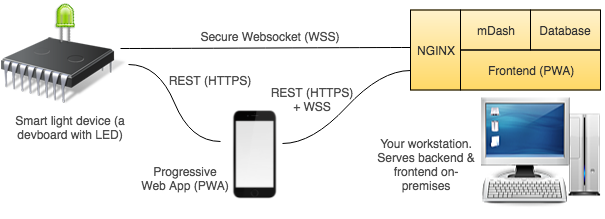
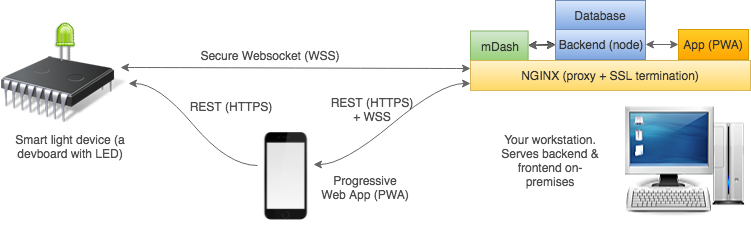
Add api server skeleton

diff --git a/backend/api-server/main.js b/backend/api-server/main.js
@@ -1,0 +1,41 @@
+// const Websocket = require('ws');
+const argv = require('minimist')(process.argv.slice(2));
+const httpServer = require('http').createServer();
+const bodyParser = require('body-parser');
+const app = require('express')();
+
+// const reconnectToNotificationEndpoint = () => {
+//   const addr = argv.notif;
+//   console.log('Connecting to', addr, '...');
+//   const ws = new Websocket(addr, {origin: addr});
+//   ws.on('open', () => {
+//     console.log('Connected.');
+//   });
+//   ws.on('close', () => {
+//     console.log('Disconnected.');
+//     setTimeout(reconnectToNotificationEndpoint, 1000);
+//   });
+//   ws.on('error', (err) => {
+//     console.log('error:', err);
+//   });
+//   ws.on('message', (message) => {
+//     console.log('Got message:', message.toString());
+//   });
+// };
+// reconnectToNotificationEndpoint();
+
+app.set('json spaces', 2);
+app.use(bodyParser.urlencoded({extended: true}));
+
+app.get('/api/listDevices', (req, res) => {
+  res.json({foo: 123, body: req.body});
+});
+
+const catchAll = (req, res) => res.json({error: 404, message: 'doh'});
+app.get('*', catchAll);
+app.post('*', catchAll);
+
+httpServer.on('request', app);
+httpServer.listen(argv.port || 8002, () => {
+  console.log('Starting API Server on port', argv.port || 8002);
+});

diff --git a/backend/mobile-app/js/app.jsx b/backend/mobile-app/js/app.jsx
@@ -102,9 +102,9 @@ class App extends Component {
       <div className="container-fluid" style={{ 'max-width': '480px' }}>
         <Header />
         <Router history={createHashHistory()} onChange={e => { this.currentUrl = e.url }}>
-          <Login default path="/" />
-          <Signup path="/signup" title="Sign Up" />
-          <DeviceList path="/devices" title="Device List" />
+          {/* <Login default path="/" /> */}
+          {/* <Signup path="/signup" title="Sign Up" /> */}
+          <DeviceList path="/" default title="Device List" />
         </Router>
       </div >
     )

diff --git a/README.md b/README.md
@@ -1,11 +1,11 @@
 # Full IoT product: smart light on Mongoose OS
 
-This repository contains the implementation of the full, functional commercial IoT product.
-It utilises the power of [Mongoose OS](https://mongoose-os.com) and can be used as a reference for creating other similar products.
+This repository contains the implementation of the full, functional commercial IoT product under a commercial-friendly Apache 2.0 license.
+It utilises the power of [Mongoose OS](https://mongoose-os.com) and can be used as a reference for creating similar smart products.
 
 This project implements a smart light. For the hardware, we use a development board with an LED, which serves as a light. The devboard can be
-"shipped" to a customer, which provisions it using
-a mobile app. You, as a vendor, have full control
+"shipped" to a customer. A customer provisions it using a mobile app.
+You, as a vendor, have full control
 over all "shipped" products, including device
 dashboard with remote firmware updates, remote management and usage statistics.
 
